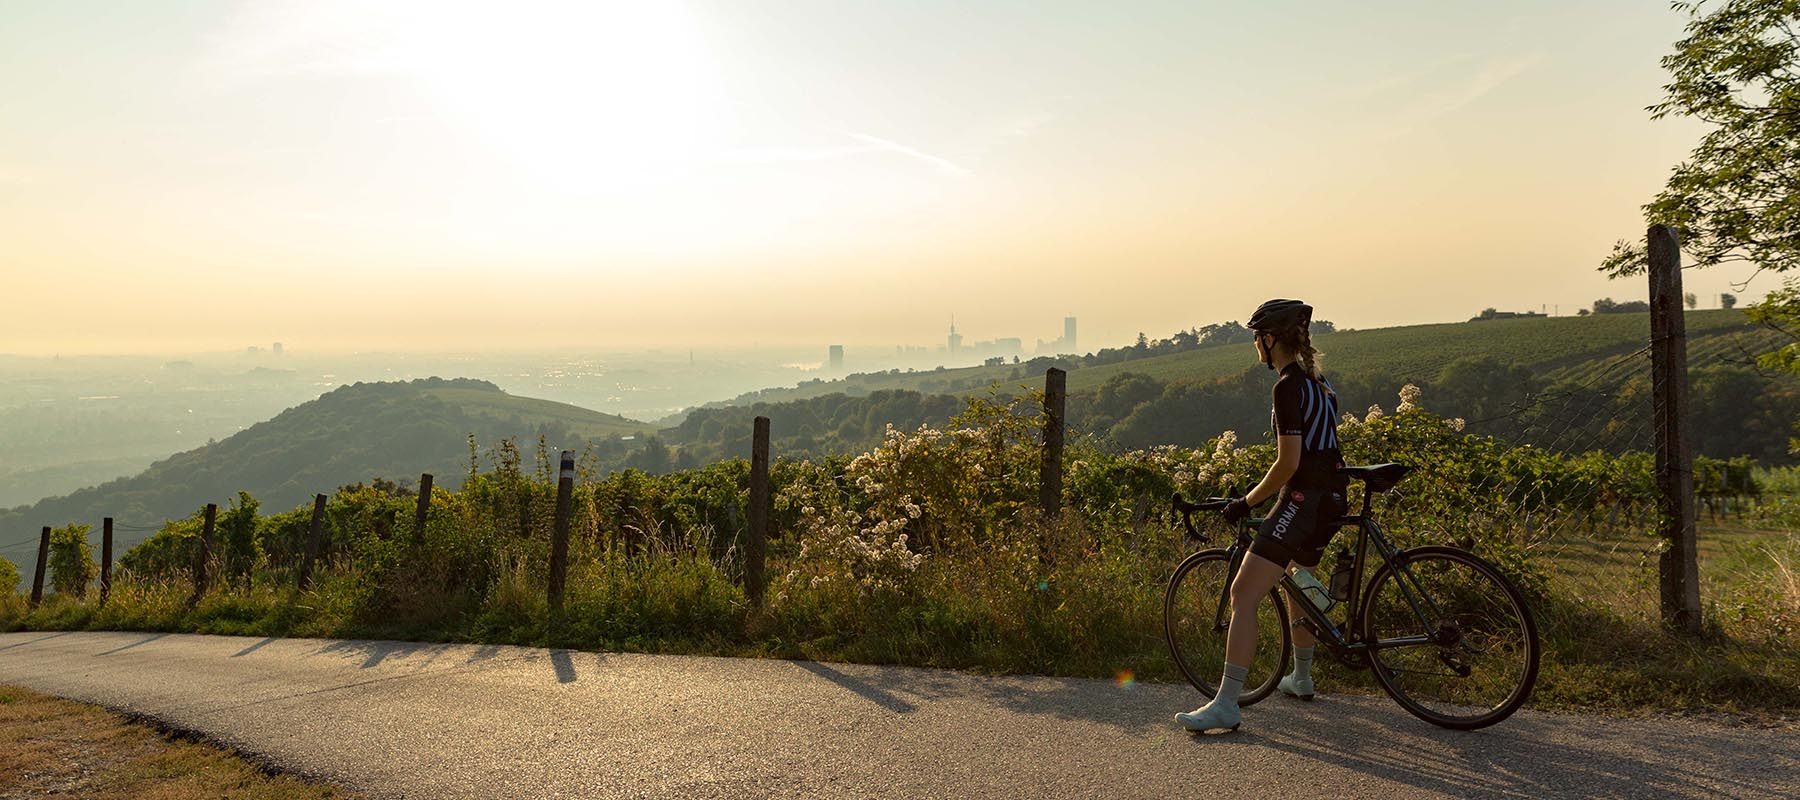
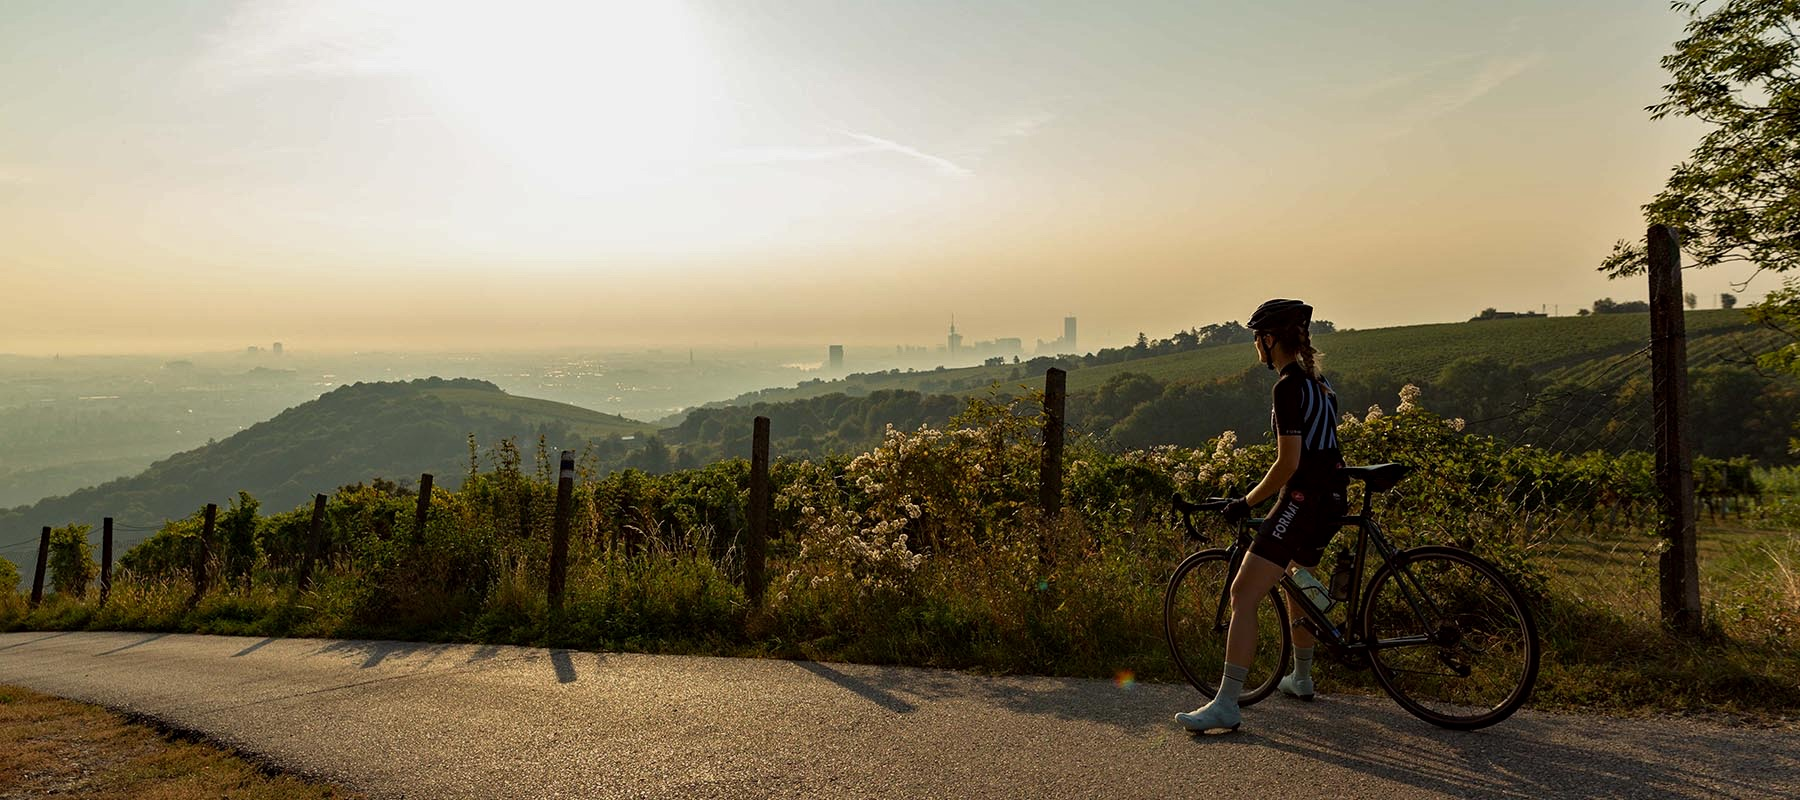
darken home hero picture, add new press contact and update votec cities

diff --git a/listnride/app/modules/brand-integration/votec.template.html b/listnride/app/modules/brand-integration/votec.template.html
@@ -47,10 +47,16 @@
         </md-button>
         <md-menu-content width="3">
           <md-menu-item>
-            <md-button md-no-ink ng-click="votec.showBikesIn('munich')"><h1 class="md-subhead">{{ 'shared.munich' | translate }}</h1></md-button>
-          </md-menu-item>      
+            <md-button md-no-ink ng-click="votec.showBikesIn('berlin')"><h1 class="md-subhead">{{ 'shared.berlin' | translate }}</h1></md-button>
+          </md-menu-item>
+          <md-menu-item>
+            <md-button md-no-ink ng-click="votec.showBikesIn('freiburg')"><h1 class="md-subhead">{{ 'shared.freiburg' | translate }}</h1></md-button>
+          </md-menu-item>
           <md-menu-item>
             <md-button md-no-ink ng-click="votec.showBikesIn('heidelberg')"><h1 class="md-subhead">{{ 'shared.heidelberg' | translate }}</h1></md-button>
+          </md-menu-item>
+          <md-menu-item>
+            <md-button md-no-ink ng-click="votec.showBikesIn('munich')"><h1 class="md-subhead">{{ 'shared.munich' | translate }}</h1></md-button>
           </md-menu-item>
         </md-menu-content>
       </md-menu>

diff --git a/listnride/app/modules/brand-integration/votec.component.js b/listnride/app/modules/brand-integration/votec.component.js
@@ -15,10 +15,10 @@ angular.module('votec-integration',[]).component('votec', {
         }
       );
       votec.bikes = {
-        frankfurt: [],
+        berlin: [],
         munich: [],
         heidelberg: [],
-        stuttgart: []
+        freiburg: []
       };
       votec.slickConfig = {
         enabled: true,
@@ -64,6 +64,8 @@ angular.module('votec-integration',[]).component('votec', {
         function (success) {
           for (var i=0; i<success.data.length; i++) {
             switch (success.data[i].city) {
+              case "Berlin": votec.bikes.berlin.push(success.data[i]); break;
+              case "Freiburg im Breisgau": votec.bikes.freiburg.push(success.data[i]); break;
               case "Heidelberg": votec.bikes.heidelberg.push(success.data[i]); break;
               case "München": votec.bikes.munich.push(success.data[i]); break;
             }

diff --git a/listnride/app/modules/static/press.template.html b/listnride/app/modules/static/press.template.html
@@ -15,9 +15,10 @@
       <div flex-gt-sm="45" layout="column" layout-margin>
         <h2 class="md-subhead">{{ 'press.contact.title' | translate }}</h2>
         <p>{{ 'press.contact.content' | translate }}</p>
-        <span>Twotone Consulting
-        <br>Michel Bovy
-        <br><a href="mailto:michel@twotoneams.nl" target="_top">michel@twotoneams.nl</a>
+        <span><b>Patrick Lödige</b>
+        <br>{{ 'press.comm-and-pr' | translate }}
+        <br><a href="mailto:pl@listnride.com" target="_top">pl@listnride.com</a>
+        <br>+49 (0) 30 / 120 870 331
       </div>
 
       <div flex-gt-sm="45" flex-gt-sm-offset="5" layout="column" layout-margin>
